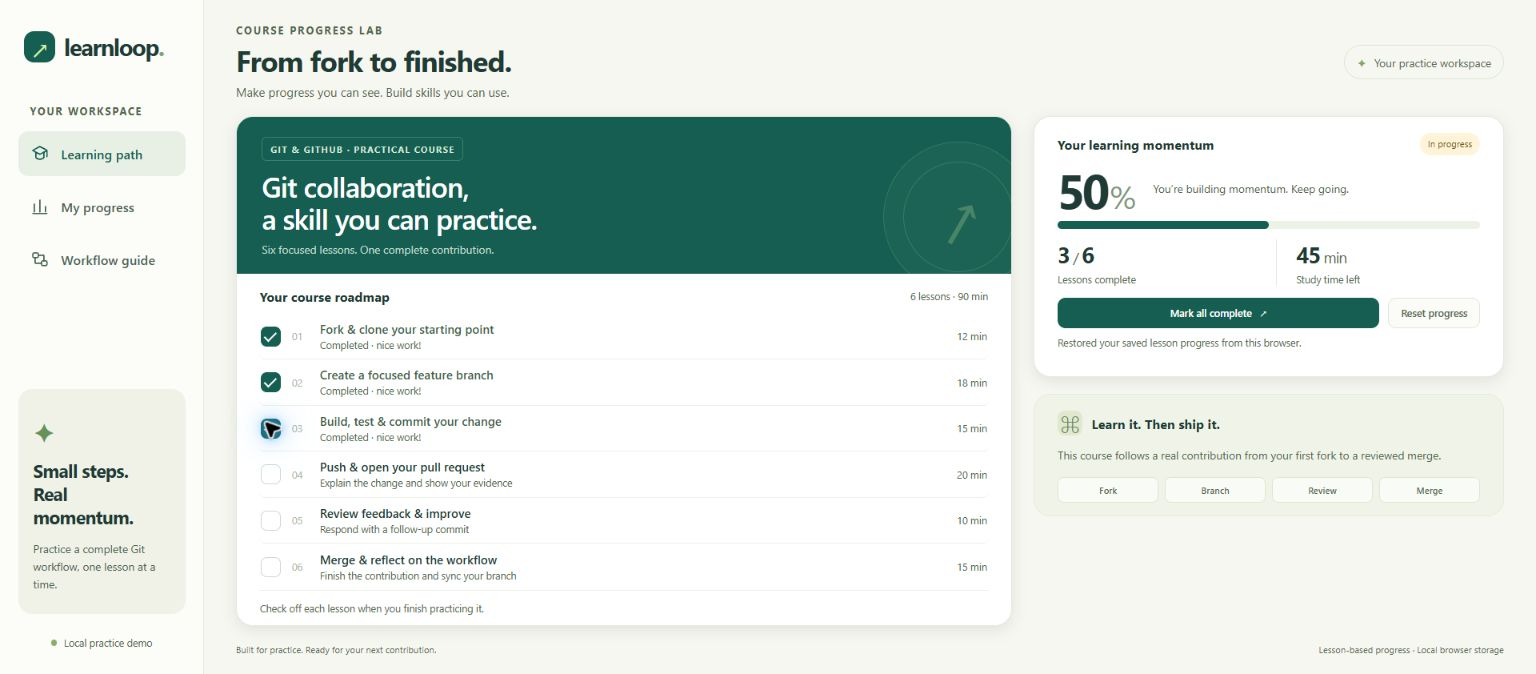
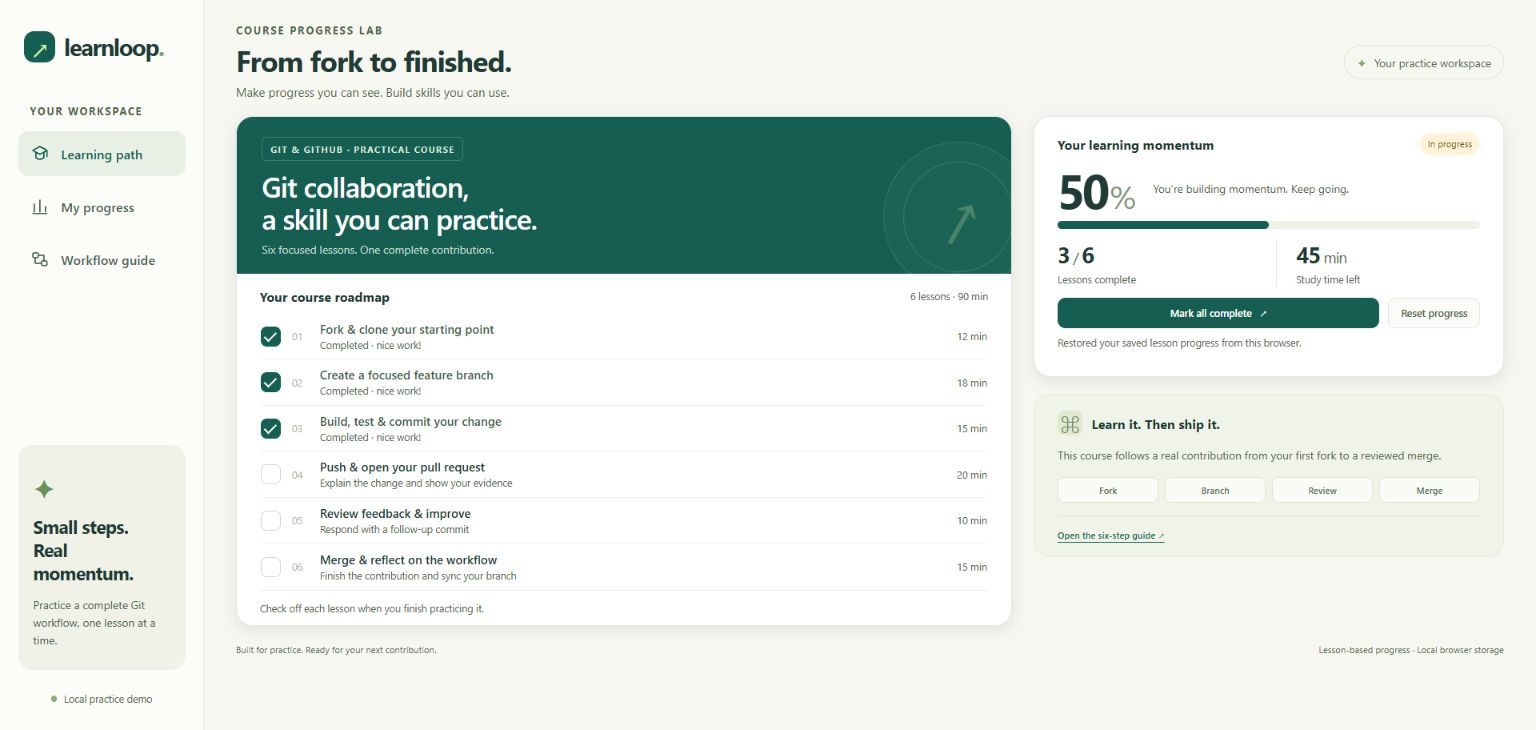
Update Experiment 9 with verified workspace views and screenshots

diff --git a/experiments/experiment-09-github-collaboration/README.md b/experiments/experiment-09-github-collaboration/README.md
@@ -23,7 +23,7 @@ Demonstrate a complete fork, branch, feature, pull request, feedback, follow-up,
 5. Open [pull request #1](https://github.com/Emadfar007/learnloop-collaboration-demo/pull/1) from `feature/course-progress-dashboard` into the fork's `main`, with the feature summary and validation evidence.
 6. Inspect the actual diff independently and post **two real inline author self-review comments**, explicitly identifying the supporting assistant inspection. Review feedback addresses readable text contrast and progress-calculator boundary coverage/API clarity.
 7. Implement the feedback in follow-up commit [15c6058](https://github.com/Emadfar007/learnloop-collaboration-demo/commit/15c6058d21aebe458259cb55ea0c7bfc84ad45df): improve contrast, add edge-case tests, and clarify the documented API. Reply to both review comments with the fixes and resolve both threads after checking the revision.
-8. Run the final tests: **13 pass**. Confirm the final-head [GitHub Actions run 38582664261](https://github.com/Emadfar007/learnloop-collaboration-demo/actions/runs/38582664261) succeeds.
+8. Run the tests at the PR #1 final-head checkpoint: **13 pass**. Confirm [GitHub Actions run 38582664261](https://github.com/Emadfar007/learnloop-collaboration-demo/actions/runs/38582664261) succeeds.
 9. Verify the actual dashboard workflow:
 
 | Browser action | Completed lessons | Progress | Remaining time |
@@ -35,9 +35,13 @@ Demonstrate a complete fork, branch, feature, pull request, feedback, follow-up,
 | Complete All | 6/6 | 100% | 0 minutes |
 
 The percentage is based on completed lesson count, not duration; remaining time is calculated from unfinished lessons. Progress survives reload in the same browser.
-10. Merge the reviewed pull request into the fork's `main` on **14 October 2026** through a disclosed owner merge. The verified merge commit is [1ab5010](https://github.com/Emadfar007/learnloop-collaboration-demo/commit/1ab501074eff730819c2fdf29a247707d1a8f64e). PR #1 is closed and marked merged. Fetch `origin/main` and verify it retains both feature commits and matches the feature tree exactly; the original root `index.html` and `styles.css` remain unchanged from the upstream source.
 
-**Verified workflow:** the fork, feature, pull request, two review threads, follow-up changes, 13 passing tests, successful final-head CI, browser workflow, and merge into the user's fork are confirmed.
+10. Merge the reviewed pull request into the fork's `main` on **14 October 2026** through a disclosed owner merge. The verified merge commit is [1ab5010](https://github.com/Emadfar007/learnloop-collaboration-demo/commit/1ab501074eff730819c2fdf29a247707d1a8f64e). PR #1 is closed and marked merged. **At the merge checkpoint**, fetching `origin/main` confirmed both feature commits were retained and its tree matched the feature branch exactly; the original root `index.html` and `styles.css` were unchanged from the upstream source.
+
+**Verified PR #1 workflow:** at the merge checkpoint, the fork, feature, pull request, two review threads, follow-up changes, 13 passing tests, successful final-head CI, browser workflow, and merge into the user's fork were confirmed.
+
+11. Replace the three menu links with distinct **Learning path**, **My progress**, and **Workflow guide** views in follow-up commit [0677064](https://github.com/Emadfar007/learnloop-collaboration-demo/commit/06770640fd383f80c77d4012450ccbd030b88357), proposed through [pull request #2](https://github.com/Emadfar007/learnloop-collaboration-demo/pull/2). Learning path shows the lesson checklist; My progress calculates the six-lesson summary and next lesson; Workflow guide explains six Git steps with links to practice each lesson.
+12. Verify **16 browser checkpoints** covering selected menu, page title, URL hash, focus, Back/Forward, view refresh, keyboard Enter, and the legacy `#progress` link redirecting to `#my-progress`. The guide's lesson-4 practice link focuses its checkbox, and Continue learning focuses the first unfinished lesson. Checking a fourth lesson gives **67%, 4/6 complete, and 25 minutes remaining**; Complete All gives **100%, 6/6, and 0 minutes**; Reset gives **0%, 0/6, and 90 minutes**. Restoring the first three completed lessons survives reload at **50%, 3/6, and 45 minutes**. The follow-up passes **13 Node tests**, syntax checks, and diff checks; independent source inspection found no issues. Confirm the successful final-head [GitHub Actions run 38585883515](https://github.com/Emadfar007/learnloop-collaboration-demo/actions/runs/38585883515), then merge PR #2 into the fork's `main` on **14 October 2026** as [676e3d8](https://github.com/Emadfar007/learnloop-collaboration-demo/commit/676e3d888b73d529d49d6ee7ffa3b21952e8c0dc). At this follow-up merge checkpoint, the updated local main matched the remote main.
 
 ## Output Screenshots
 
@@ -45,7 +49,7 @@ The percentage is based on completed lesson count, not duration; remaining time 
 
 ![Public GitHub fork](screenshots/01-public-fork.jpg)
 
-2. **Feature branch:** the course-progress feature branch and its initial changes.
+2. **Feature branch:** the course-progress feature branch with its initial implementation and follow-up changes.
 
 ![Feature branch in the fork](screenshots/02-feature-branch.jpg)
 
@@ -73,8 +77,18 @@ The percentage is based on completed lesson count, not duration; remaining time 
 
 ![Pull request merged into the fork](screenshots/08-merged-pull-request.jpg)
 
+9. **My progress:** a dedicated progress summary and next-lesson view, separate from the learning checklist.
+
+![Dedicated My progress view](screenshots/09-progress-view.jpg)
+
+10. **Workflow guide excerpt:** the guide introduces six detailed Git workflow steps with lesson-practice links; later steps continue below the visible area.
+
+![Dedicated Workflow guide view](screenshots/10-workflow-guide.jpg)
+
 ## Result
 
-Implemented a working local LearnLoop dashboard and demonstrated a genuine GitHub feature-review workflow in [pull request #1](https://github.com/Emadfar007/learnloop-collaboration-demo/pull/1). Two inline self-review comments were addressed in a follow-up commit and both threads resolved. **All 13 final tests pass**, final-head GitHub Actions checks succeeded, and the dashboard's completion, reset, and reload-persistence flows were verified.
+Implemented a working local LearnLoop dashboard and demonstrated a genuine GitHub feature-review workflow in [pull request #1](https://github.com/Emadfar007/learnloop-collaboration-demo/pull/1). Two inline self-review comments were addressed in a follow-up commit and both threads resolved. **At the PR #1 merge checkpoint, all 13 tests passed**, final-head GitHub Actions checks succeeded, and the dashboard's completion, reset, and reload-persistence flows were verified.
 
-PR #1 was merged into **Emadfar007/learnloop-collaboration-demo's main** as commit [1ab5010](https://github.com/Emadfar007/learnloop-collaboration-demo/commit/1ab501074eff730819c2fdf29a247707d1a8f64e). The remote main branch contains both feature commits and the verified feature tree. The dashboard remains available for local testing. This single-account exercise demonstrates transparent author self-review and a completed owner merge; it does not constitute independent human approval.
+PR #1 was merged into **Emadfar007/learnloop-collaboration-demo's main** as commit [1ab5010](https://github.com/Emadfar007/learnloop-collaboration-demo/commit/1ab501074eff730819c2fdf29a247707d1a8f64e). **At the merge checkpoint**, the remote main branch contained both feature commits and the verified feature tree. The dashboard remains available for local testing. This single-account exercise demonstrates transparent author self-review and a completed owner merge; it does not constitute independent human approval.
+
+The navigation follow-up provides three distinct working views with correct history, refresh, keyboard, and focus behavior. All **16 browser checkpoints** and **13 Node tests** passed, including next-lesson guidance and saved progress. Its final-head [GitHub Actions run](https://github.com/Emadfar007/learnloop-collaboration-demo/actions/runs/38585883515) succeeded, and [PR #2](https://github.com/Emadfar007/learnloop-collaboration-demo/pull/2) was merged into the fork's main as [676e3d8](https://github.com/Emadfar007/learnloop-collaboration-demo/commit/676e3d888b73d529d49d6ee7ffa3b21952e8c0dc). Local main matched remote main at that checkpoint.

diff --git a/README.md b/README.md
@@ -64,7 +64,7 @@ Experiment 08 includes all six requested features within nine detailed requireme
 
 ![Merged LearnLoop pull request with the feature and follow-up commits](experiments/experiment-09-github-collaboration/screenshots/08-merged-pull-request.jpg)
 
-Experiment 09 includes eight screenshots documenting a fork of octocat/Spoon-Knife, a working LearnLoop dashboard, two feature commits, review feedback, passing checks, and [merged pull request #1](https://github.com/Emadfar007/learnloop-collaboration-demo/pull/1). All 13 tests passed. Only Emadfar007 was used, so the review is explicitly a self-review informed by assistant code inspection, without independent human approval. The merge targets the user's fork's main branch.
+Experiment 09 includes ten screenshots documenting a fork of octocat/Spoon-Knife, a working LearnLoop dashboard, two feature commits, review feedback, passing checks, and [merged pull request #1](https://github.com/Emadfar007/learnloop-collaboration-demo/pull/1). Its navigation follow-up adds distinct Learning path, My progress, and Workflow guide views, verified across 16 browser checkpoints and merged in [pull request #2](https://github.com/Emadfar007/learnloop-collaboration-demo/pull/2). All 13 tests passed. Only Emadfar007 was used, so the review is explicitly a self-review informed by assistant code inspection, without independent human approval. The merges target the user's fork's main branch.
 
 ## Local testing
 
